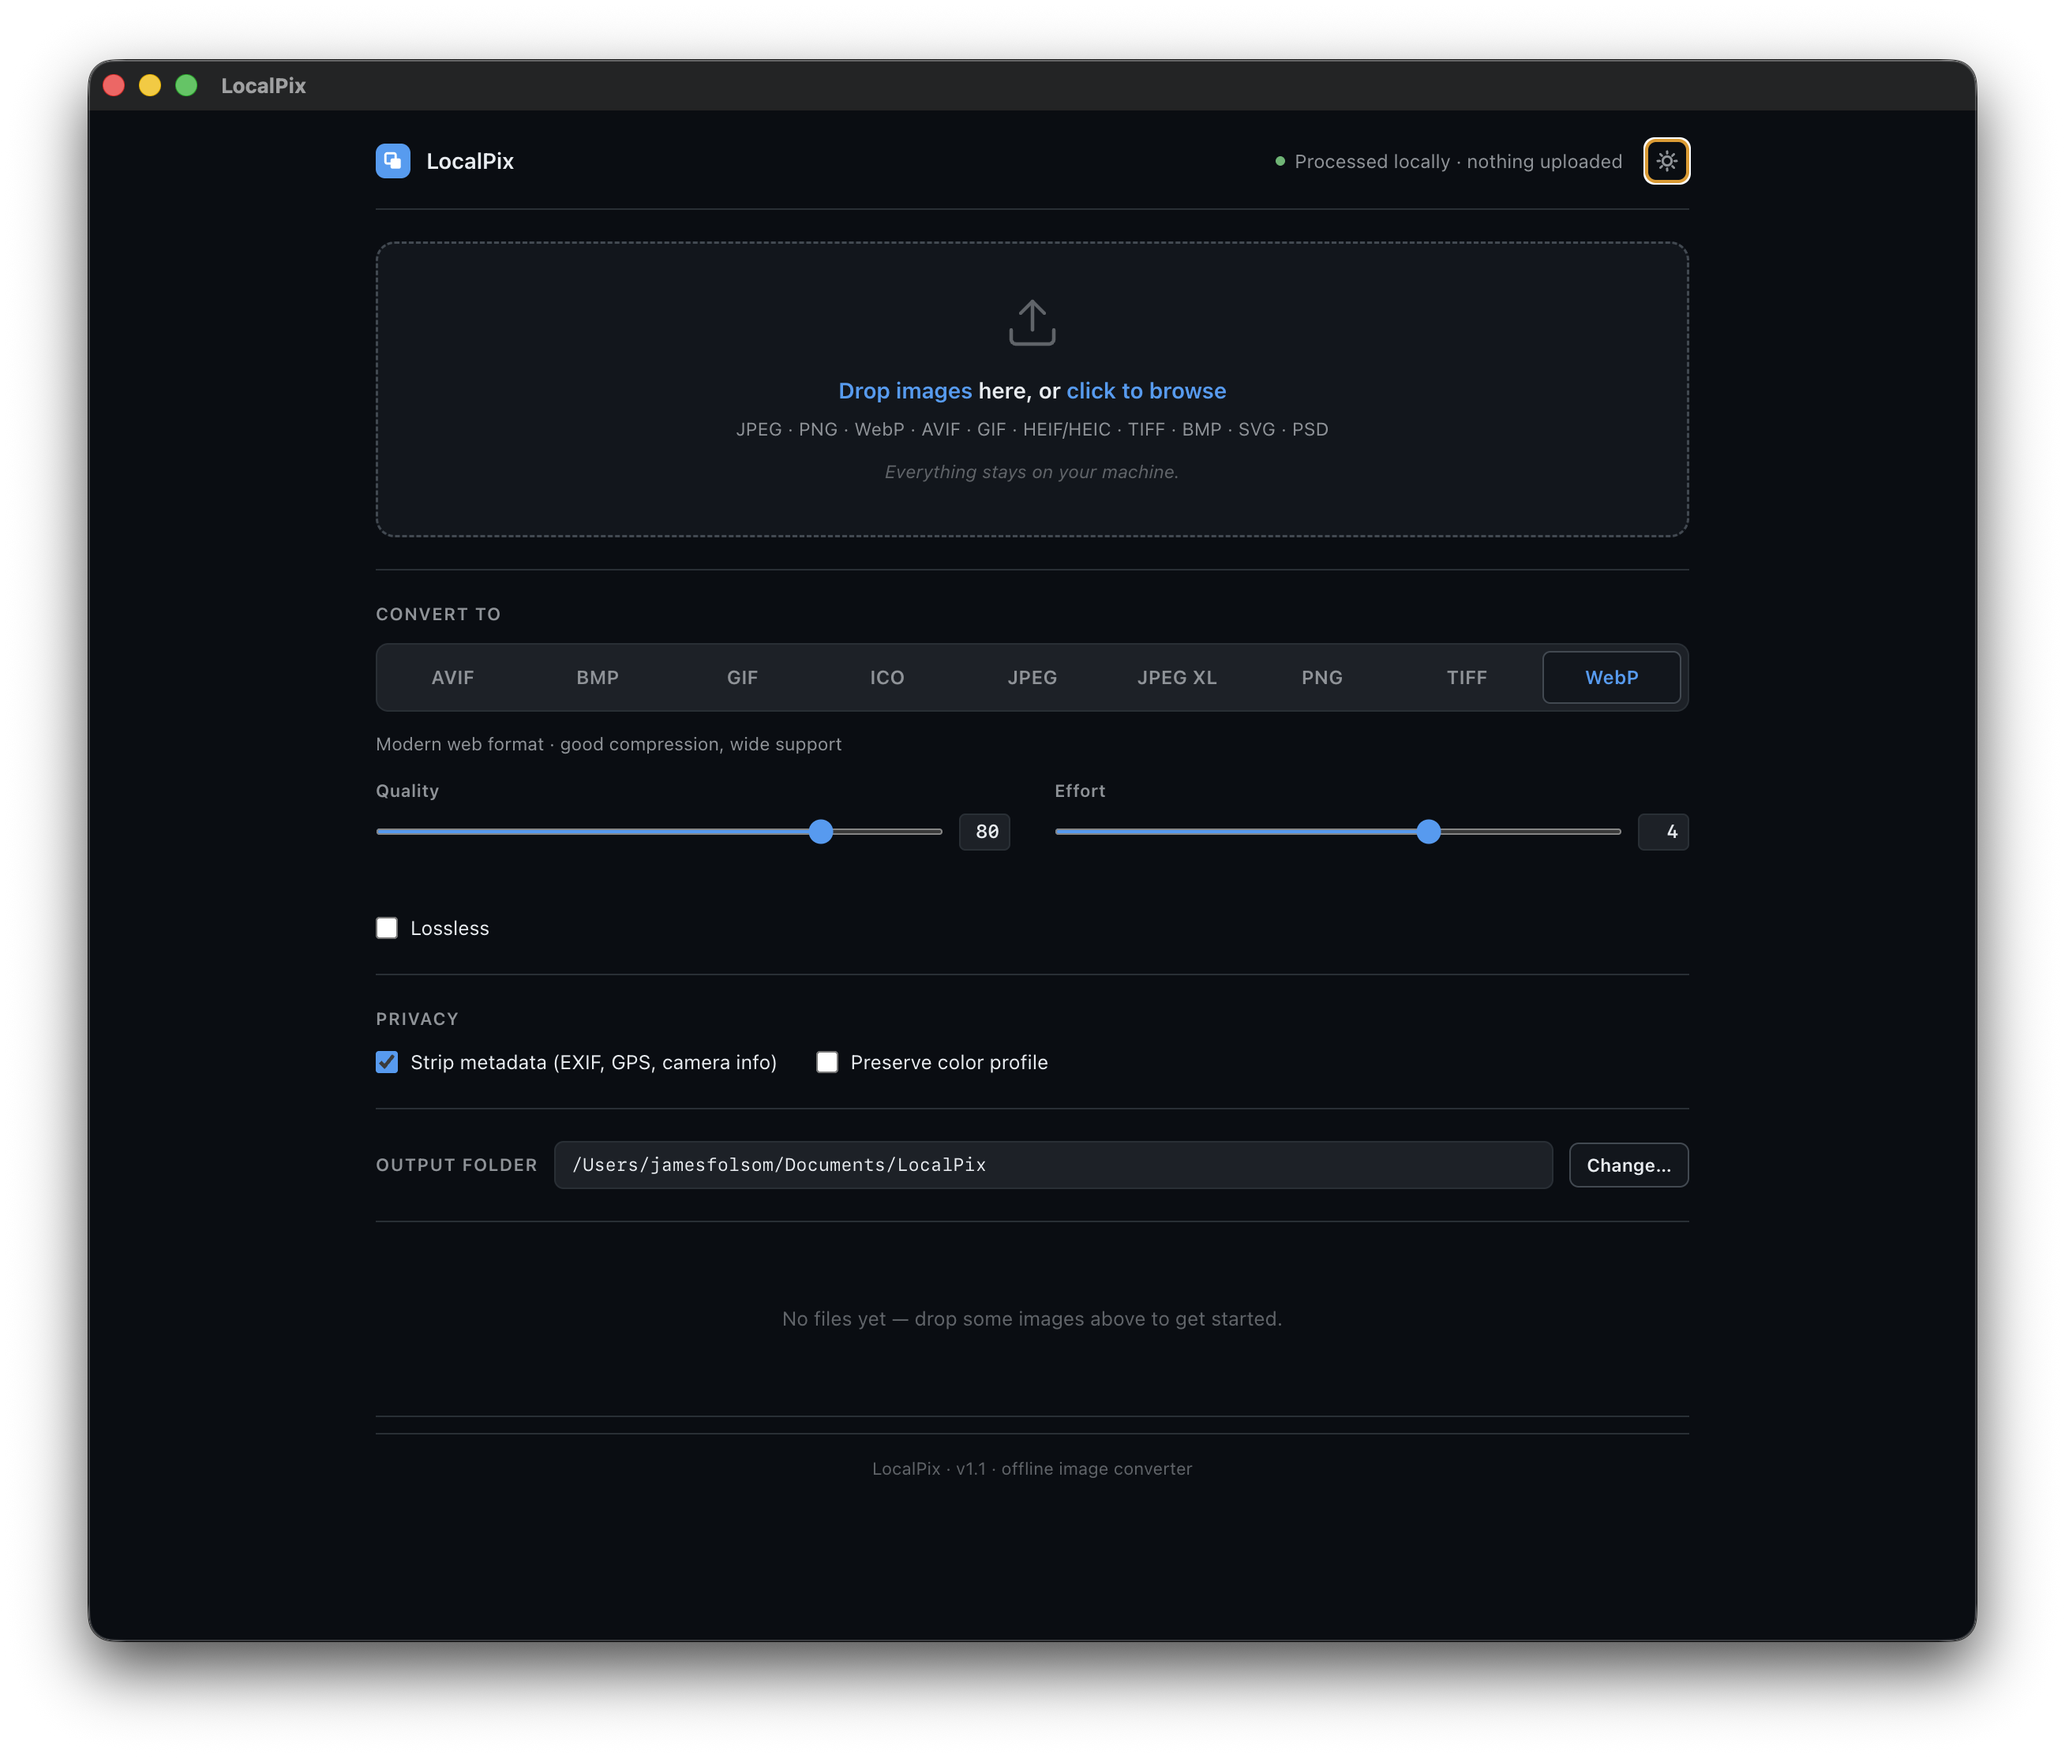
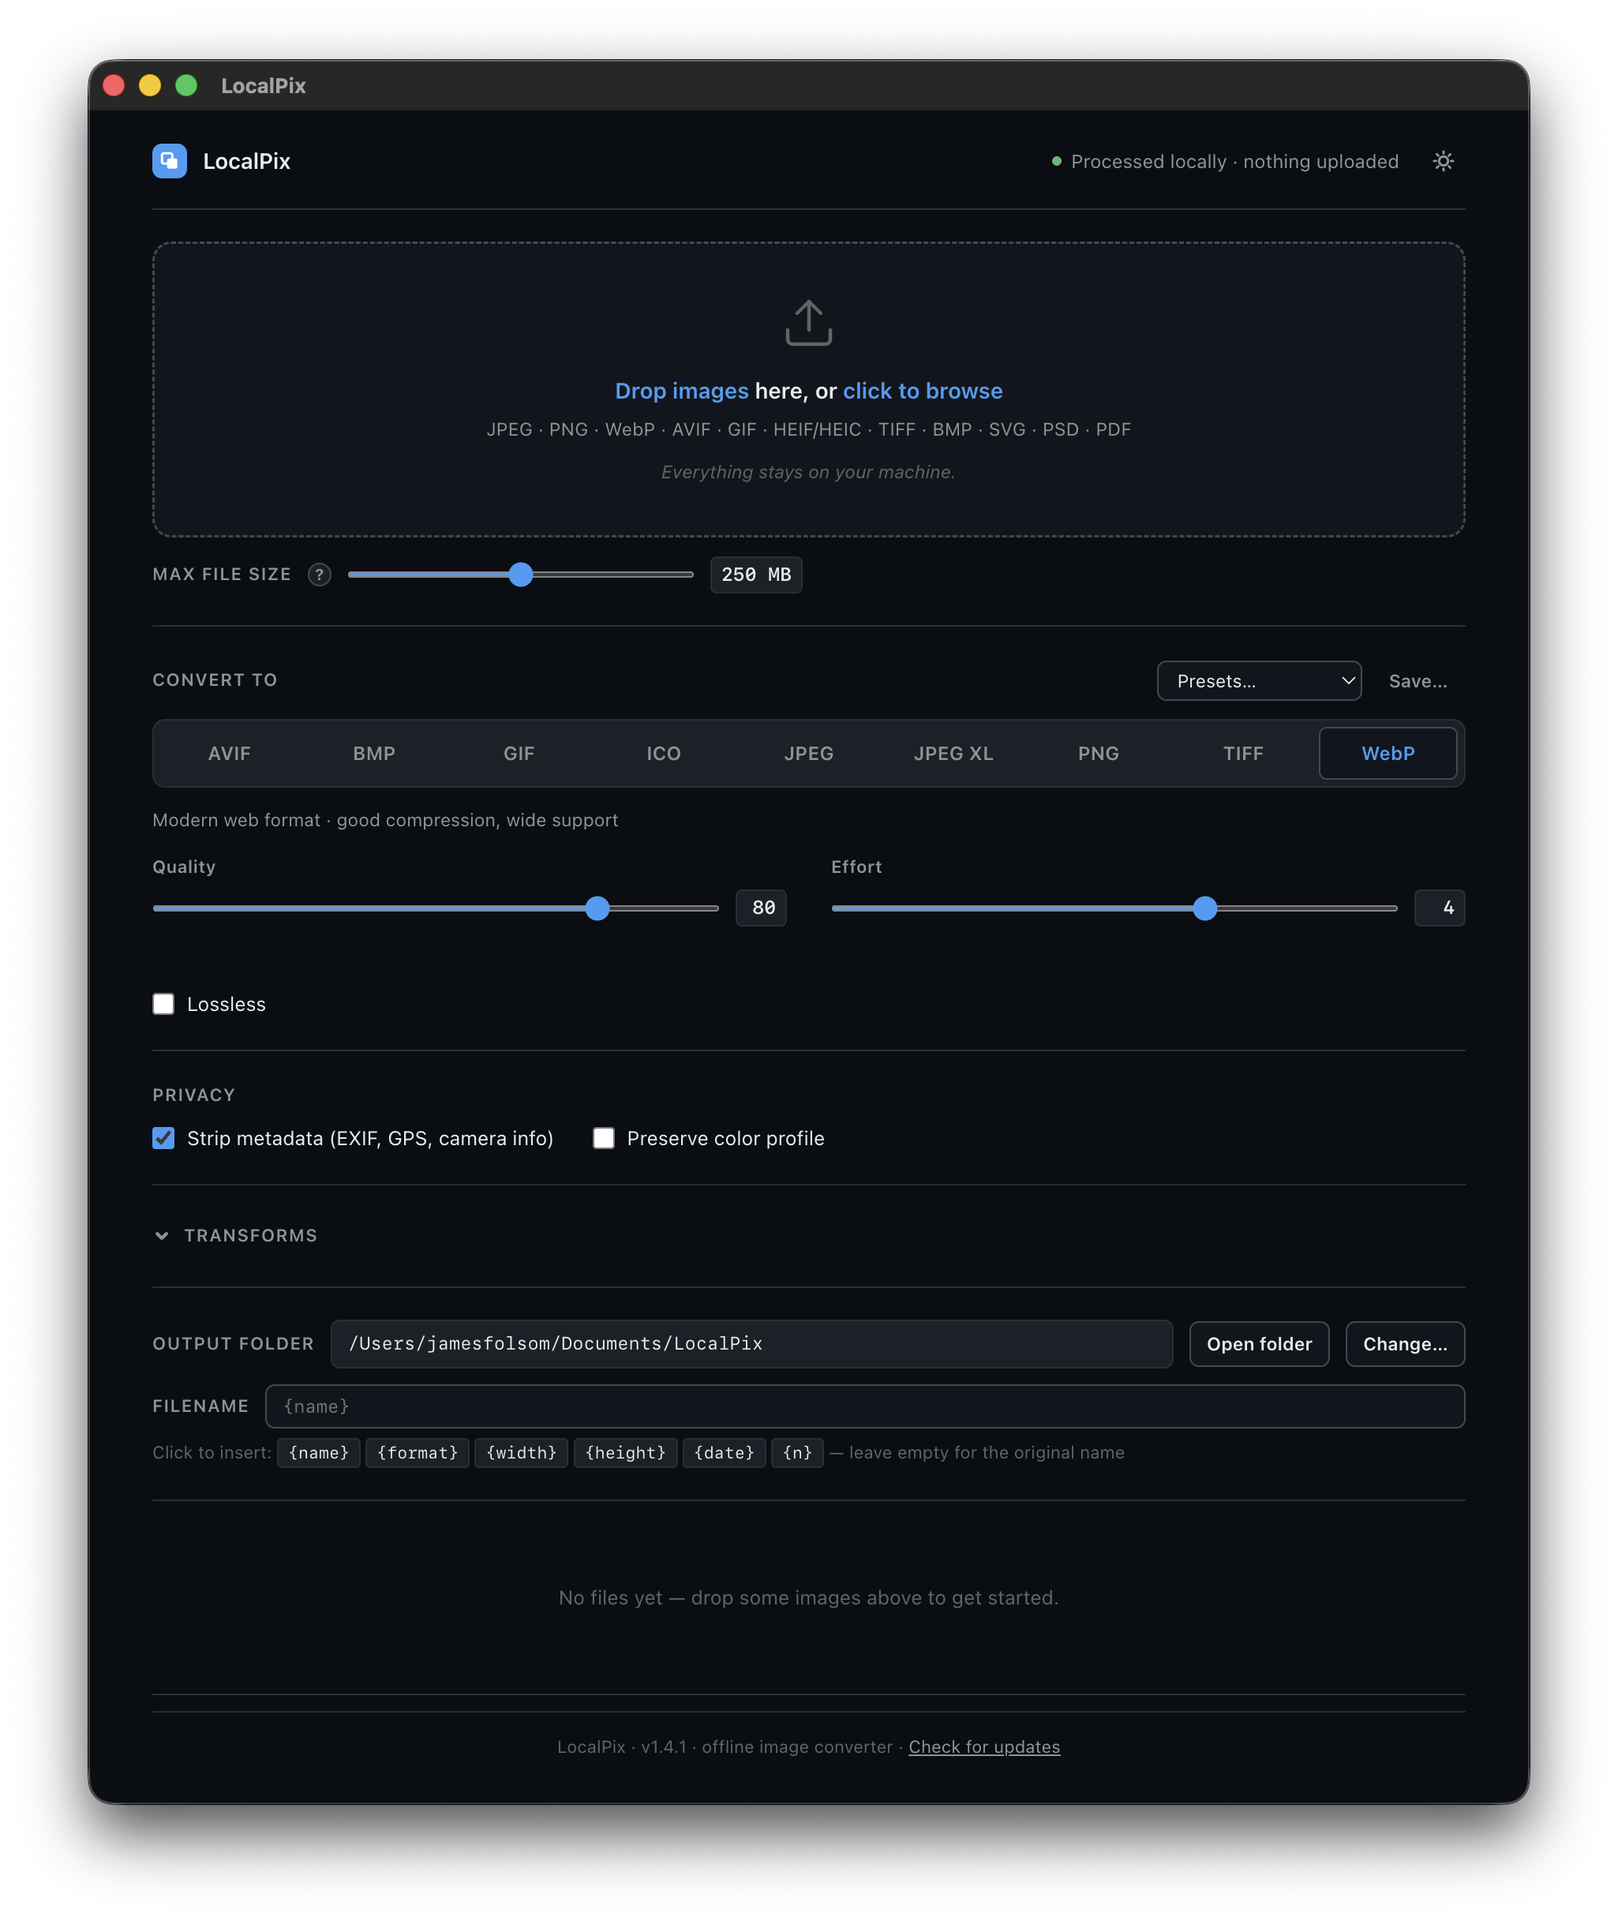
docs: README covers max-file-size cap + manual update check; new dark hero shot
New 'Checking for updates' section, max-file-size explainer in How to
use it, and two updated 'Why LocalPix?' bullets. Dark-mode hero
screenshot replaced with the v1.5 UI (max file size slider + footer
update check). Light-mode shot still shows the v1.4 UI — needs a retake.

diff --git a/README.md b/README.md
@@ -21,7 +21,8 @@ Convert between JPEG, PNG, WebP, AVIF, JPEG XL, GIF, TIFF, BMP and ICO — witho
 - **It's free and open source.** Use it for personal or commercial work; no subscriptions, no watermarks.
 - **It's fast.** Native image processing — typical conversions are done in milliseconds.
 - **It supports the formats you actually have.** Read 11 common formats including iPhone HEIC, Photoshop PSD, SVG, and PDF. Write 9, including modern ones like AVIF and JPEG XL.
-- **It handles batches.** Drop a whole folder, convert everything at once. Per-format quality controls, privacy controls, custom output folder.
+- **It handles batches.** Drop a whole folder, convert everything at once. Per-format quality controls, privacy controls, a max-file-size cap, custom output folder.
+- **Updates on your terms.** A manual **Check for updates** button in the footer — one anonymous version check when you click it, never in the background.
 
 ## Download
 
@@ -63,6 +64,12 @@ Intel Macs and Windows ARM aren't in the default release but can be built from s
 4. **Click Convert** on a file row or **Convert All** for a batch.
 
 Converted files land in `~/Documents/LocalPix/` by default. Click **Change…** next to the output folder to pick somewhere else; LocalPix remembers your choice between launches.
+
+**Max file size** — the slider under the drop zone caps how large a file can be added (default **250 MB**, up to 2 GB or no limit). Files are held in memory while they convert, so a cap keeps one giant file from slowing down or freezing the app on machines with less RAM; anything over the cap is skipped at drop time. Hover the **?** next to the label for the short version.
+
+## Checking for updates
+
+LocalPix never checks for updates on its own — that would be a network call you didn't ask for. Instead, click **Check for updates** in the footer whenever you like. It fetches the latest release number from GitHub (anonymously — see the FAQ), compares it with the version you're running, and links you to the download page if there's something newer. Nothing is downloaded or installed automatically.
 
 ## Supported formats
 
